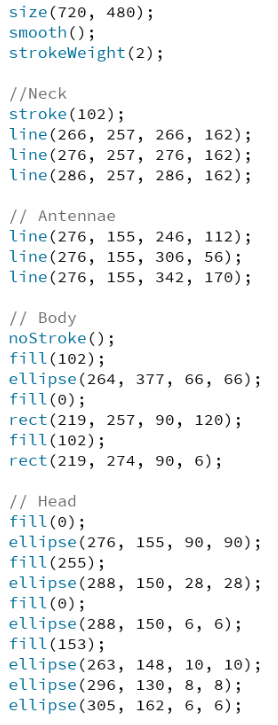
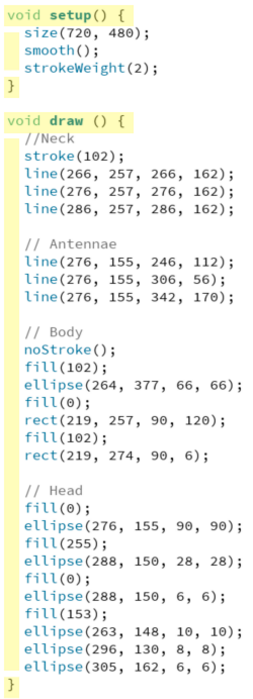
image exploration

diff --git a/exercises/robot/robot.md b/exercises/robot/robot.md
@@ -25,9 +25,7 @@ We want it to be active (keep running) and make our robot move. Notice the two p
 Updated, dynamic code
 <img align="left" src="https://github.com/susanev/2016_Winter_UWHCDE_p5/blob/master/exercises/robot/images/code_not_dynamic.png" alt="Code that is not dynamic">
 
-<img align="right" src="https://github.com/susanev/2016_Winter_UWHCDE_p5/blob/master/exercises/robot/images/dynamic.png" alt="Code that is dynamic">
-
-
+<img align="right" src="https://github.com/susanev/2016_Winter_UWHCDE_p5/blob/master/exercises/robot/images/code_dynamic.png" alt="Code that is dynamic">
 
 What is happening?
 The setup( ) function runs once, when the program is first run. After the setup( ) runs, then the draw( ) function runs over and over again. This redraws the image. The diagram shows what is happening when the Processing engine runs a dynamic program.
